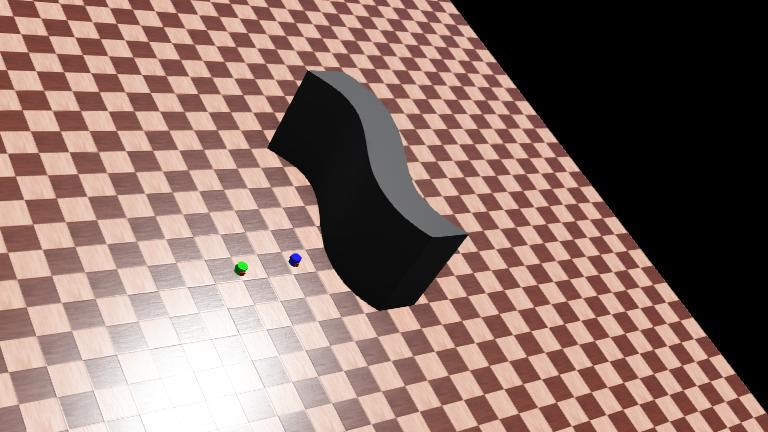
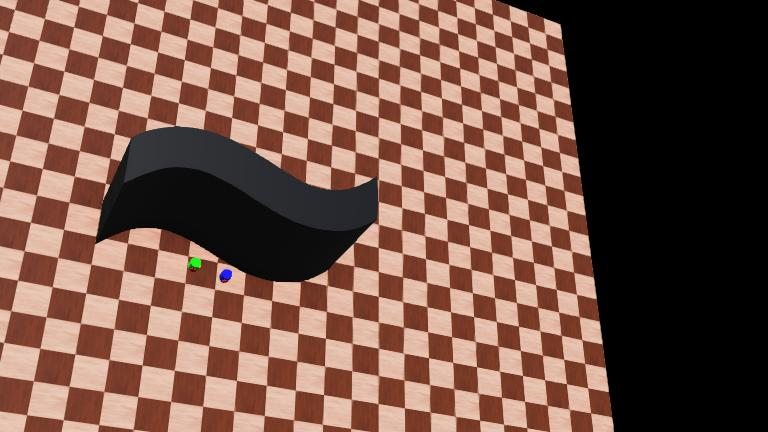
small fix + reposition

diff --git a/setup.py b/setup.py
@@ -7,6 +7,7 @@ data_files.append(('share/' + package_name + '/launch', ['launch/robot_launch.py
 data_files.append(('share/' + package_name + '/worlds', ['worlds/my_world.wbt']))
 data_files.append(('share/' + package_name + '/resource', ['resource/my_robot.urdf']))
 data_files.append(('share/' + package_name, ['package.xml']))
+data_files.append(('share/' + package_name + '/worlds', ['worlds/tilde.obj']))
 
 setup(
     name=package_name,

diff --git a/build/wall_following/prefix_override/sitecustomize.py b/build/wall_following/prefix_override/sitecustomize.py
@@ -1,4 +1,4 @@
 import sys
 if sys.prefix == '/usr':
     sys.real_prefix = sys.prefix
-    sys.prefix = sys.exec_prefix = '/home/zaka/ros2_ws/src/wall_following/install/wall_following'
+    sys.prefix = sys.exec_prefix = '/home/ptratsae/robotics/assignment_1/wall_following/install/wall_following'
